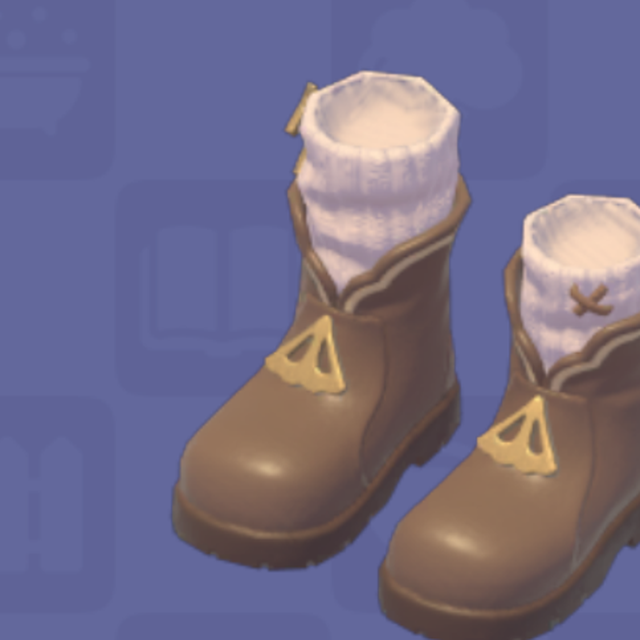
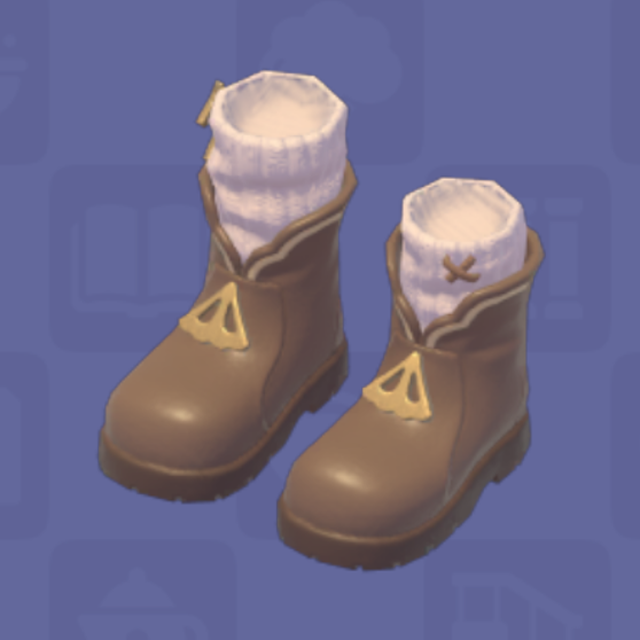
オーダーチケットの画像切り抜きがずれていた3点を中央寄せに修正
対象: イチョウのソックスブーツ(006)、星夜・変形平台(107)、
紫色の隕石のかたまりの標本台(146)

Claude-Session: https://claude.ai/code/session_01K3eMRAeT6oYS9BRu22swvm

diff --git a/service-worker.js b/service-worker.js
@@ -1,5 +1,5 @@
 // キャッシュ名（更新時はバージョンを上げる）
-const CACHE_NAME = "hatopi-v2.491.0";
+const CACHE_NAME = "hatopi-v2.492.0";
 
 // キャッシュするファイル一覧
 const CACHE_FILES = [
